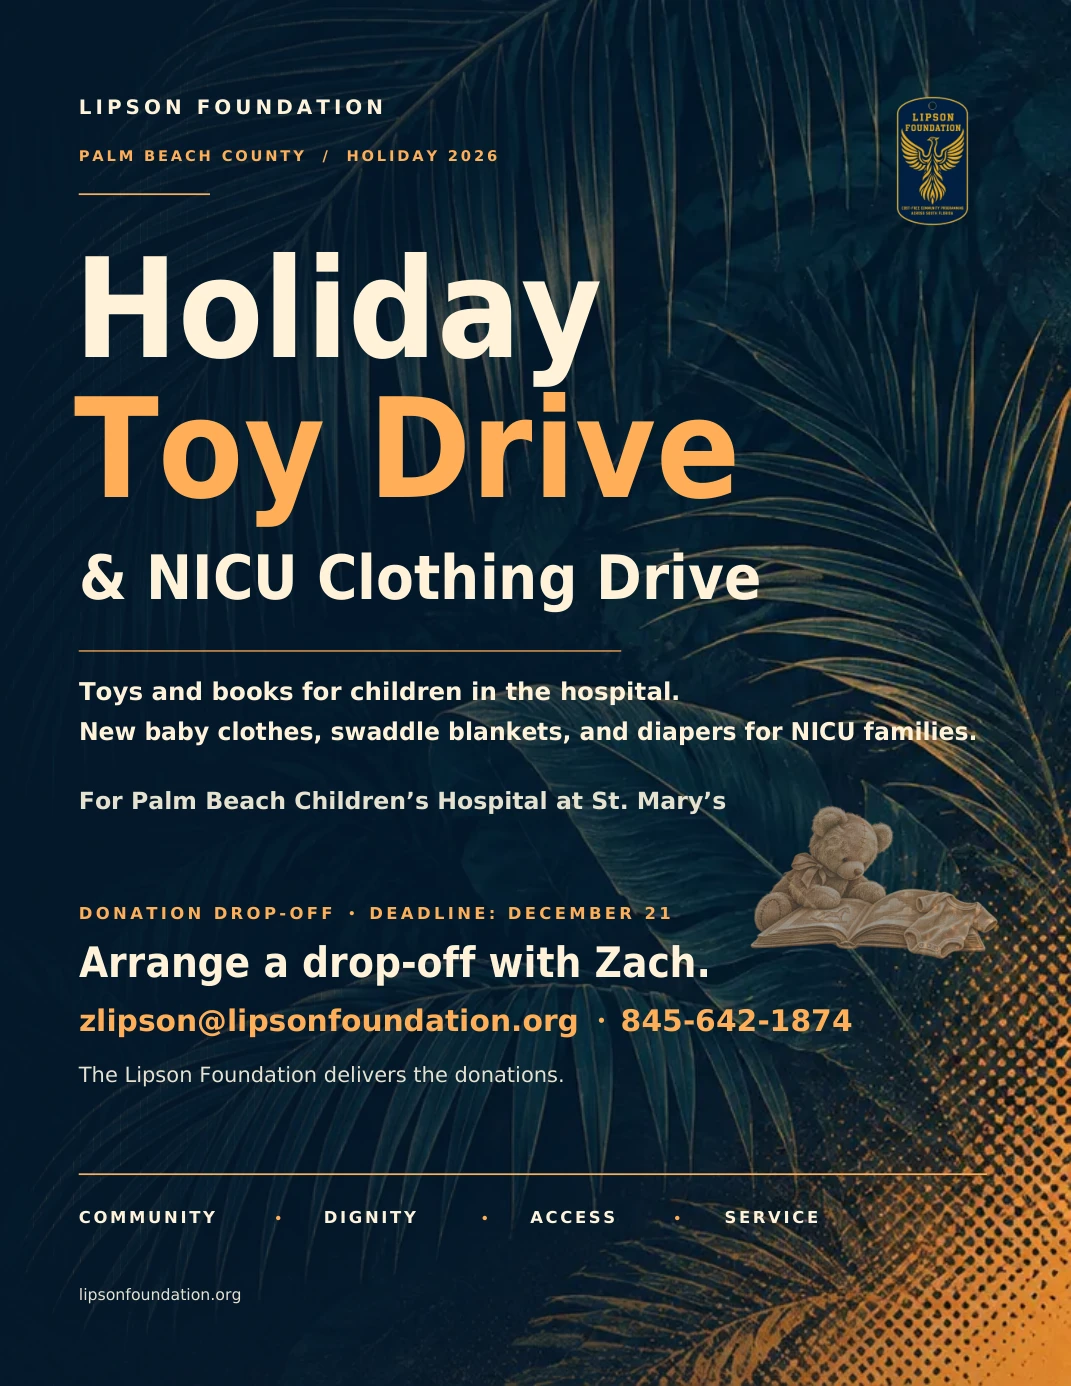
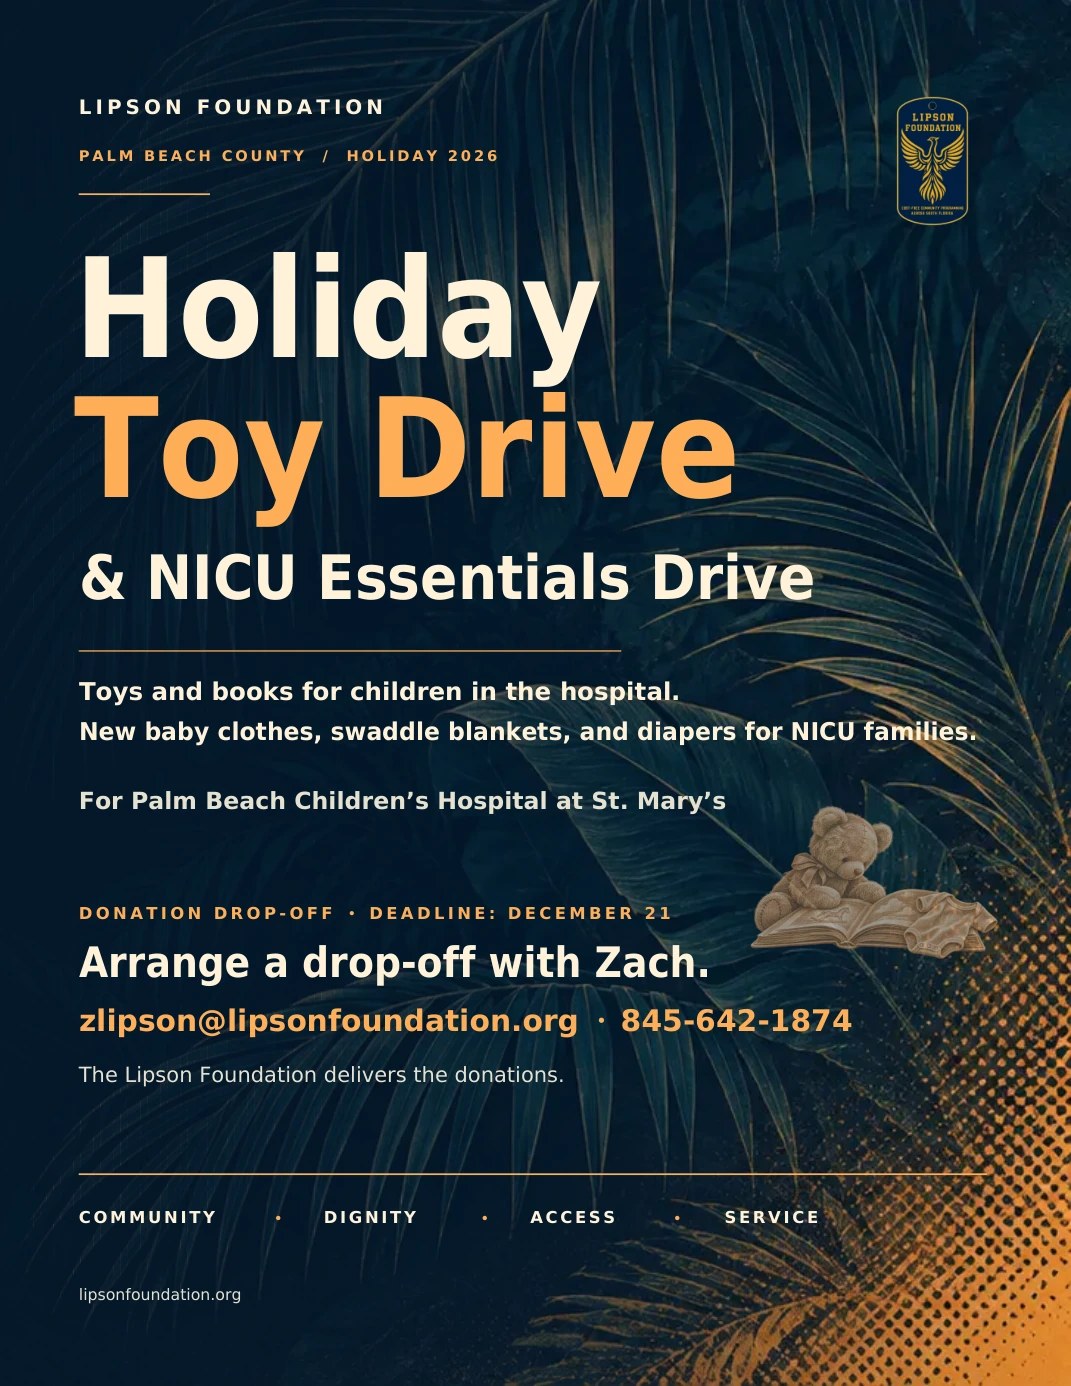
Rename the holiday drive to NICU Essentials

Changed region(s): [[0.3081, 0.4033, 0.7703, 0.4654]]

diff --git a/app/events/page.tsx b/app/events/page.tsx
@@ -13,7 +13,7 @@ import { events } from "@/lib/site"
 export const metadata: Metadata = pageMetadata({
   title: "Events",
   description:
-    "Public events from Lipson Foundation, including the 2026 Holiday Toy Drive and NICU Clothing Drive.",
+    "Public events from Lipson Foundation, including the 2026 Holiday Toy Drive and NICU Essentials Drive.",
   route: "/events",
 })
 
@@ -33,7 +33,7 @@ export default function EventsPage() {
             Donation deadline: <time dateTime="2026-12-21">December 21, 2026</time>
           </p>
           <h2 id="holiday-drive-title" className="text-3xl font-semibold leading-tight">
-            Holiday Toy Drive &amp; NICU Clothing Drive
+            Holiday Toy Drive &amp; NICU Essentials Drive
           </h2>
           <p className="text-sm leading-relaxed">
             Donate new toys and books for children, or new baby clothes, swaddle
@@ -49,13 +49,13 @@ export default function EventsPage() {
           </p>
         </div>
         <a
-          href="/events/lipson-holiday-drive-flyer.webp?v=diapers"
-          aria-label="View the full-size Holiday Toy Drive and NICU Clothing Drive flyer"
+          href="/events/lipson-holiday-drive-flyer.webp?v=essentials"
+          aria-label="View the full-size Holiday Toy Drive and NICU Essentials Drive flyer"
           className="block overflow-hidden rounded-lg border"
         >
           <Image
-            src="/events/lipson-holiday-drive-flyer.webp?v=diapers"
-            alt="Lipson Foundation holiday drive flyer"
+            src="/events/lipson-holiday-drive-flyer.webp?v=essentials"
+            alt="Lipson Foundation Holiday Toy Drive and NICU Essentials Drive flyer"
             width={1071}
             height={1386}
             sizes="(min-width: 768px) 352px, (min-width: 640px) 520px, 90vw"
